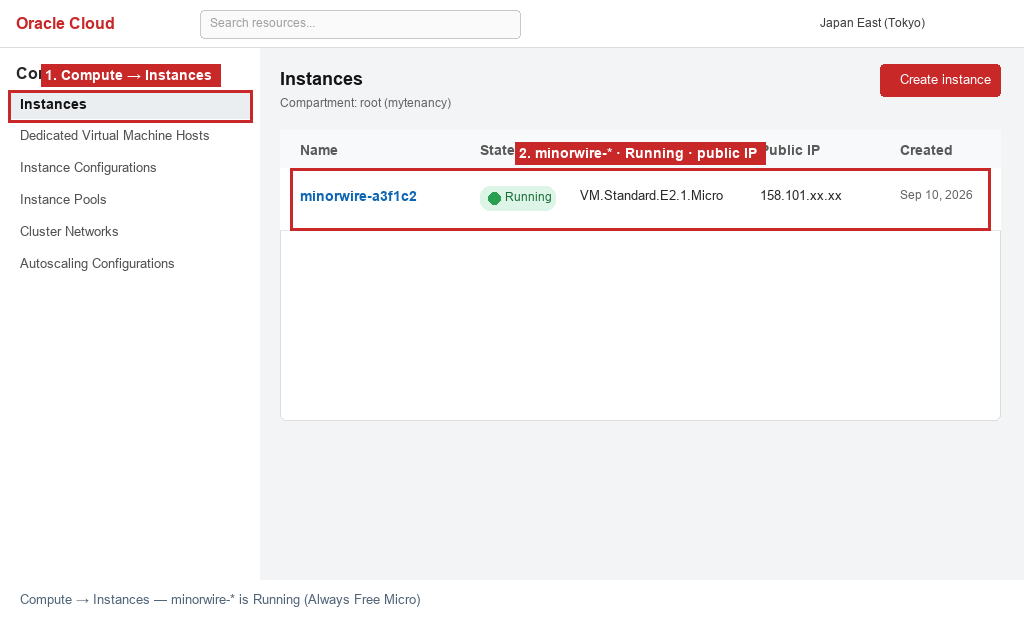
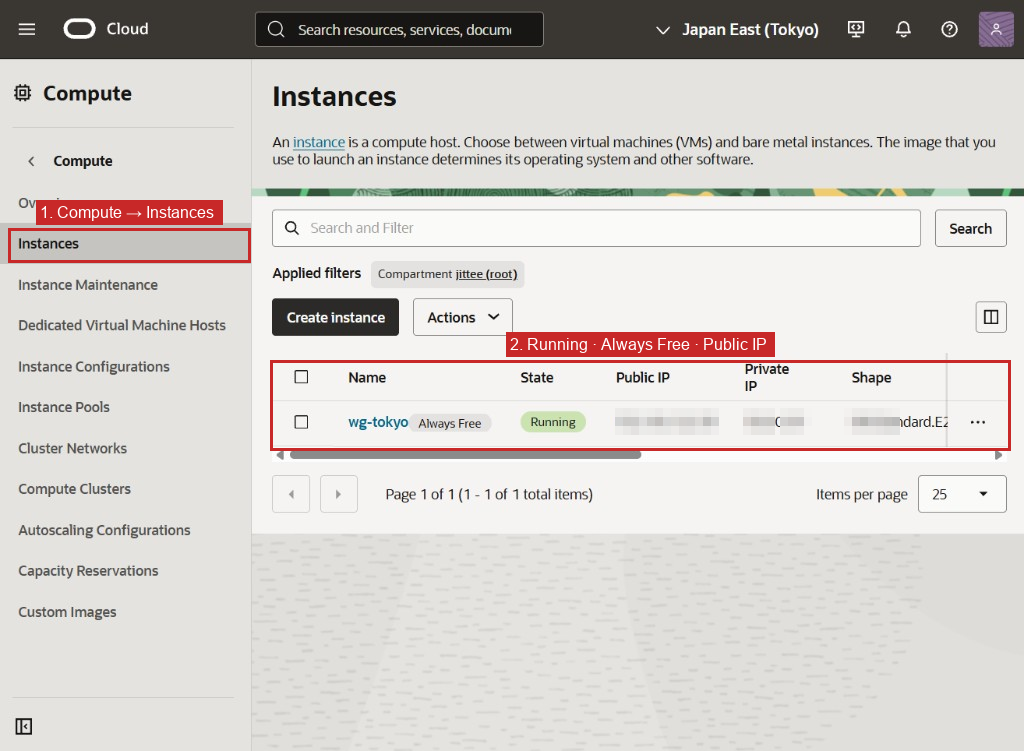
Replace Instances guide mock with real console screenshot.
Blur public/private IPs, annotate Compute → Instances and Running row, and clarify MinorWire names vs example screenshot.

diff --git a/app/minorwire/setup/copy.ts b/app/minorwire/setup/copy.ts
@@ -205,16 +205,16 @@ export const SETUP_COPY: Record<string, SetupCopy> = {
         id: 'verifyInstance',
         title: 'Step 6 — 成功後: Compute でインスタンスを確認',
         body:
-          '「VPN を作成」が成功すると、あなたのテナンシー上に Always Free Micro（VM.Standard.E2.1.Micro）のコンピュート・インスタンスが1台できます。名前は minorwire- で始まります。セットアップ画面に公開 IP も表示されます。コンソールでも次の手順で確認できます。',
+          '「VPN を作成」が成功すると、あなたのテナンシー上に Always Free Micro（VM.Standard.E2.1.Micro）のコンピュート・インスタンスが1台できます。MinorWire が作る名前は minorwire- で始まります（下のスクショは Instances 画面の見本です）。セットアップ画面に公開 IP も表示されます。',
         clickSteps: [
           'セットアップ画面の状態が done になり、公開 IP と .conf が表示されることを確認',
           'コンソール左上メニュー（≡）→ Compute → Instances（または下の直リンク）',
           'リージョンが VPN 作成時と同じ（例: Japan East / Tokyo）であることを確認',
-          '一覧に minorwire-… があり、State が Running、Shape が VM.Standard.E2.1.Micro、Public IP がセットアップ画面と一致することを確認',
+          '一覧で State が Running、Shape が VM.Standard.E2.1.Micro、Public IP がセットアップ画面と一致することを確認（MinorWire 作成時は名前が minorwire-…）',
           '表示された .conf を公式 WireGuard アプリにインポートして接続',
         ],
         image: '/minorwire/guide/verify-01-instances.png',
-        imageAlt: 'Compute → Instances — minorwire instance Running',
+        imageAlt: 'Compute → Instances — Running (Always Free)',
         ociLink: 'computeInstances',
         linkLabel: 'Instances 一覧を開く',
       },
@@ -269,7 +269,7 @@ export const SETUP_COPY: Record<string, SetupCopy> = {
     publicIp: '公開 IP',
     working: '作業中… 数分かかることがあります。',
     doneNote:
-      'この購入での OCI サーバは1台までです。端末用 .conf は下からいつでも追加できます。インスタンスは Compute → Instances で minorwire-* / Running を確認できます。',
+      'この購入での OCI サーバは1台までです。端末用 .conf は下からいつでも追加できます。インスタンスは Compute → Instances で Running（MinorWire 作成時は minorwire-*）を確認できます。',
     confTitle: (name) => `WireGuard 設定 (${name})`,
     downloadConf: (name) => `${name}.conf をダウンロード`,
     addPeerTitle: '別端末の .conf を追加',
@@ -396,16 +396,16 @@ export const SETUP_COPY: Record<string, SetupCopy> = {
         id: 'verifyInstance',
         title: 'Step 6 — After success: confirm the instance in Compute',
         body:
-          'When Create VPN succeeds, one Always Free Micro instance (VM.Standard.E2.1.Micro) is created in your tenancy. The name starts with minorwire-. The setup page also shows the public IP. You can double-check in the console as follows.',
+          'When Create VPN succeeds, one Always Free Micro instance (VM.Standard.E2.1.Micro) is created in your tenancy. MinorWire names it starting with minorwire- (the screenshot below is an Instances page example). The setup page also shows the public IP.',
         clickSteps: [
           'Confirm the setup status is done and the public IP plus .conf are shown',
           'Console menu (≡) → Compute → Instances (or the direct link below)',
           'Confirm the region matches the one used for VPN creation (e.g. Singapore)',
-          'In the list, find minorwire-… with State Running, Shape VM.Standard.E2.1.Micro, and Public IP matching the setup page',
+          'In the list, confirm State is Running, Shape is VM.Standard.E2.1.Micro, and Public IP matches the setup page (MinorWire names start with minorwire-…)',
           'Import the .conf into the official WireGuard app and connect',
         ],
         image: '/minorwire/guide/verify-01-instances.png',
-        imageAlt: 'Compute → Instances — minorwire instance Running',
+        imageAlt: 'Compute → Instances — Running (Always Free)',
         ociLink: 'computeInstances',
         linkLabel: 'Open Instances list',
       },
@@ -585,16 +585,16 @@ export const SETUP_COPY: Record<string, SetupCopy> = {
         id: 'verifyInstance',
         title: 'Step 6 — 成功后：在 Compute 确认实例',
         body:
-          '「创建 VPN」成功后，会在你的租户中创建一台 Always Free Micro（VM.Standard.E2.1.Micro）计算实例。名称以 minorwire- 开头。设置页也会显示公网 IP。也可按以下步骤在控制台核对。',
+          '「创建 VPN」成功后，会在你的租户中创建一台 Always Free Micro（VM.Standard.E2.1.Micro）计算实例。MinorWire 创建的名称以 minorwire- 开头（下方截图为 Instances 页面示例）。设置页也会显示公网 IP。',
         clickSteps: [
           '确认设置页状态为 done，并显示公网 IP 与 .conf',
           '控制台左上菜单（≡）→ Compute → Instances（或下方直链）',
           '确认区域与创建 VPN 时一致（例如 Singapore）',
-          '列表中找到 minorwire-…，State 为 Running，Shape 为 VM.Standard.E2.1.Micro，Public IP 与设置页一致',
+          '列表中确认 State 为 Running、Shape 为 VM.Standard.E2.1.Micro、Public IP 与设置页一致（MinorWire 创建时名称以 minorwire-… 开头）',
           '将 .conf 导入官方 WireGuard 应用并连接',
         ],
         image: '/minorwire/guide/verify-01-instances.png',
-        imageAlt: 'Compute → Instances — minorwire instance Running',
+        imageAlt: 'Compute → Instances — Running (Always Free)',
         ociLink: 'computeInstances',
         linkLabel: '打开 Instances 列表',
       },

diff --git a/scripts/blur_instances_guide.py b/scripts/blur_instances_guide.py
@@ -1,0 +1,65 @@
+"""Blur IPs and annotate the Compute → Instances guide screenshot."""
+from PIL import Image, ImageDraw, ImageFont
+import os
+
+ASSETS = r"C:\Users\Johji\.cursor\projects\d-dancefloor-MinorWire\assets"
+OUT = r"D:\dancefloor\jittee\public\minorwire\guide"
+
+
+def asset(suffix: str) -> str:
+    for name in os.listdir(ASSETS):
+        if name.endswith(suffix):
+            return os.path.join(ASSETS, name)
+    raise FileNotFoundError(suffix)
+
+
+def mosaic(im: Image.Image, box, block: int = 10) -> None:
+    x0, y0, x1, y1 = [int(v) for v in box]
+    x0, y0 = max(0, x0), max(0, y0)
+    x1, y1 = min(im.width, x1), min(im.height, y1)
+    if x1 <= x0 or y1 <= y0:
+        return
+    crop = im.crop((x0, y0, x1, y1))
+    small = crop.resize(
+        (max(1, (x1 - x0) // block), max(1, (y1 - y0) // block)),
+        Image.Resampling.BILINEAR,
+    )
+    im.paste(small.resize((x1 - x0, y1 - y0), Image.Resampling.NEAREST), (x0, y0))
+
+
+def callout(im: Image.Image, box, text: str, tag_above: bool = True) -> None:
+    d = ImageDraw.Draw(im)
+    d.rectangle(box, outline=(200, 40, 40), width=3)
+    try:
+        font = ImageFont.truetype("arial.ttf", 16)
+    except Exception:
+        font = ImageFont.load_default()
+    tw = int(font.getlength(text)) + 12
+    th = 24
+    ly0 = max(0, box[1] - th - 4) if tag_above else min(im.height - th, box[3] + 4)
+    box_mid = (box[0] + box[2]) // 2
+    lx0 = max(0, min(box_mid - tw // 2, im.width - tw))
+    d.rectangle((lx0, ly0, lx0 + tw, ly0 + th), fill=(200, 40, 40))
+    d.text((lx0 + 4, ly0 + 3), text, fill=(255, 255, 255), font=font)
+
+
+im = Image.open(asset("image-e1f95ed3-20df-4da9-9a50-1425cfb47437.png")).convert("RGB")
+
+# Blur public / private IP values
+mosaic(im, (615, 408, 775, 435), block=8)
+mosaic(im, (780, 408, 900, 435), block=8)
+
+# Sidebar: Compute → Instances
+callout(im, (8, 228, 250, 262), "1. Compute → Instances")
+# Instance row: name / Running / IPs / shape
+callout(im, (270, 360, 1010, 450), "2. Running · Always Free · Public IP")
+
+out = os.path.join(OUT, "verify-01-instances.png")
+im.save(out, optimize=True)
+print("saved", out, im.size)
+
+for name in ("inst-nav.png", "inst-row.png", "inst-grid.png", "inst-nav-g.png", "inst-table.png", "inst-p1.png", "inst-p2.png"):
+    path = os.path.join(OUT, name)
+    if os.path.exists(path):
+        os.remove(path)
+print("cleaned")
